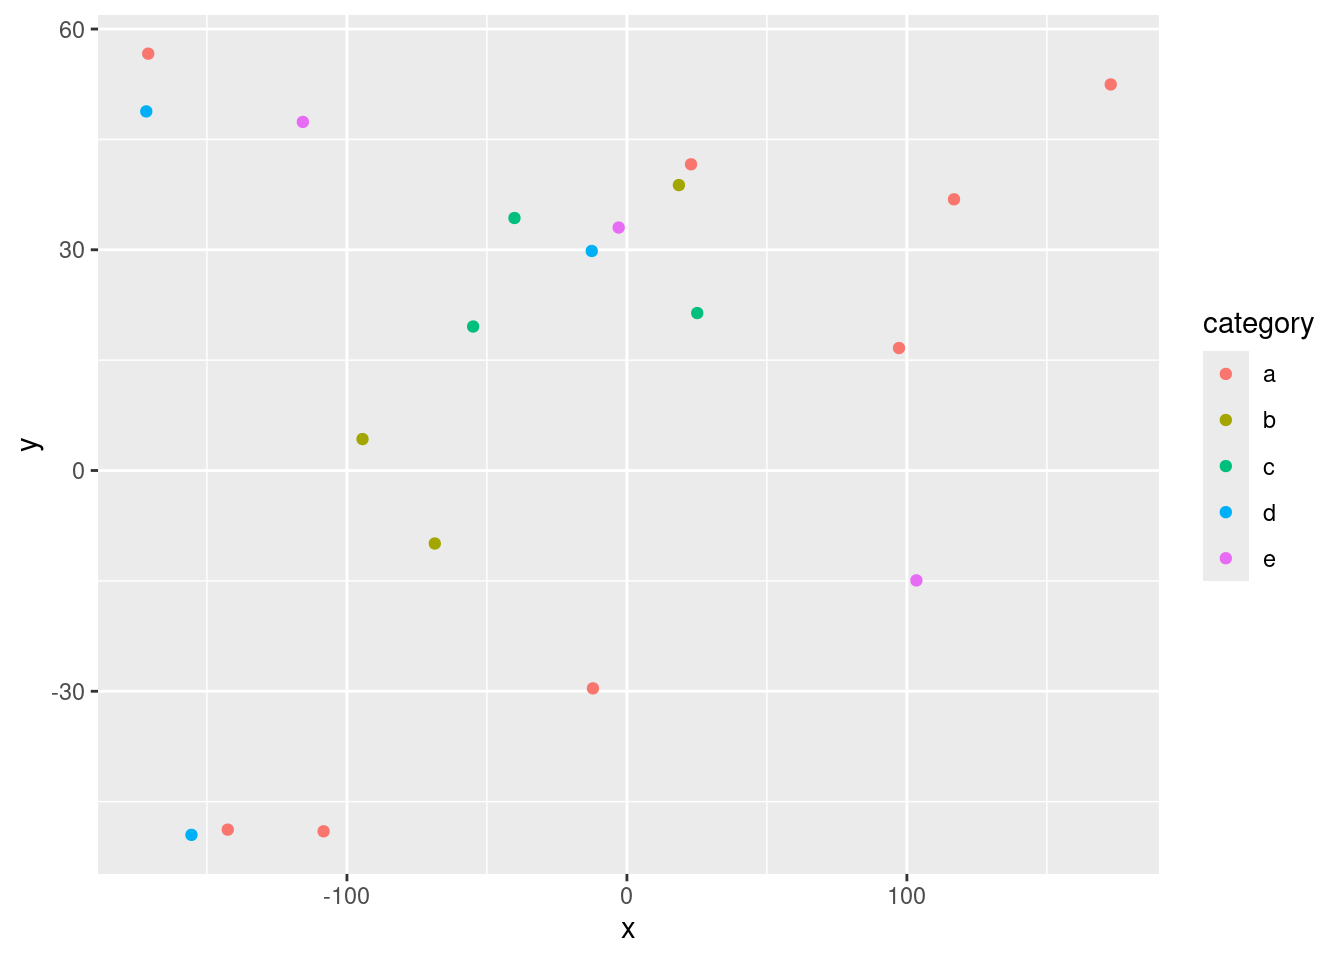
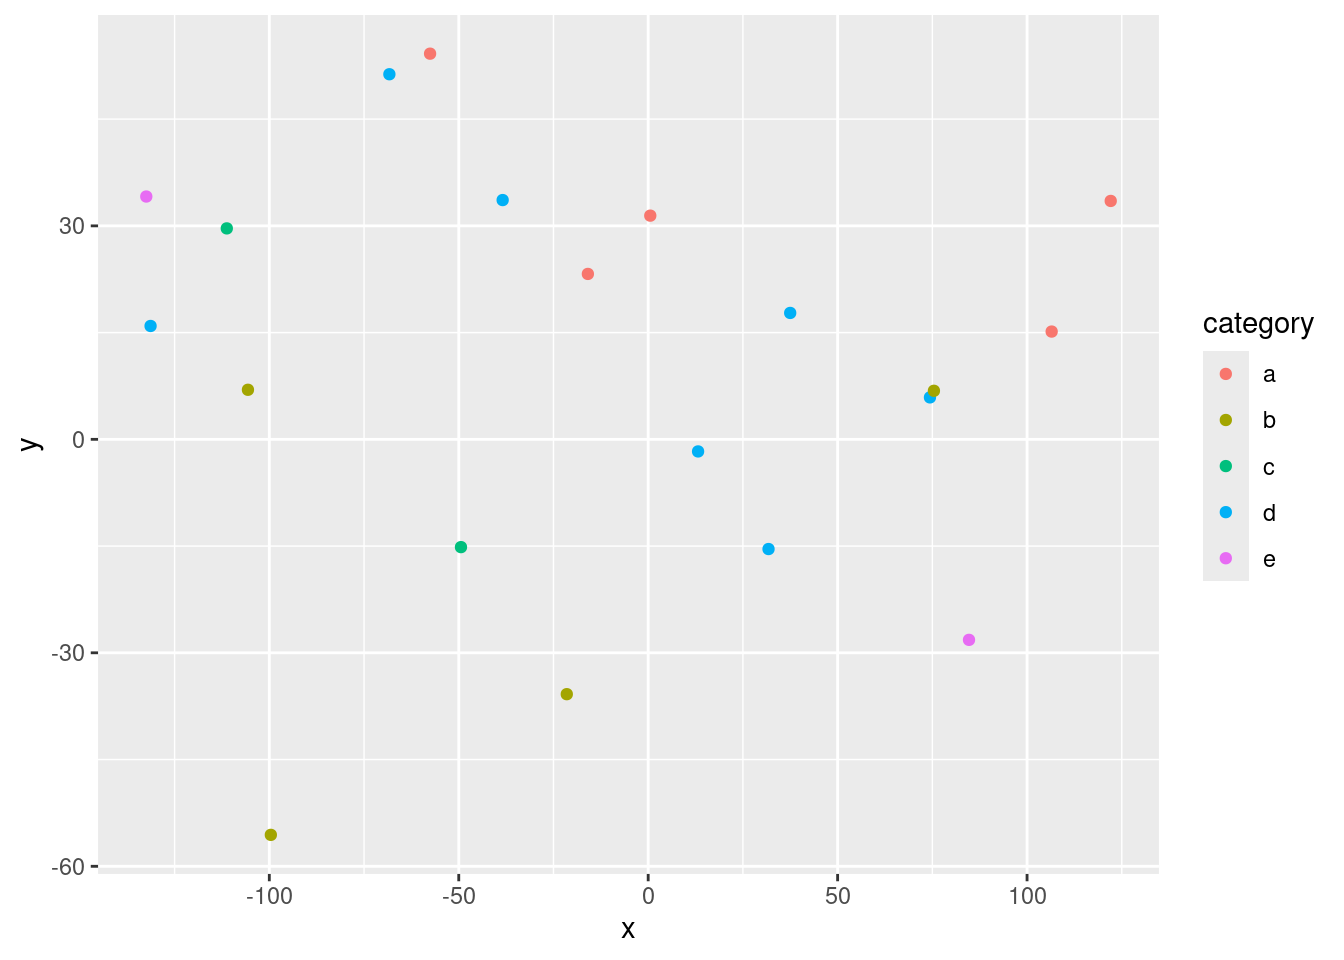
Built site for gh-pages

diff --git a/index.html b/index.html
@@ -266,74 +266,74 @@ pre > code.sourceCode > span > a:first-child::before { text-decoration: underlin
 </thead>
 <tbody>
 <tr class="odd">
-<td style="text-align: center;">-54.93</td>
-<td style="text-align: center;">19.57</td>
-<td style="text-align: center;">19.17</td>
+<td style="text-align: center;">-111.22</td>
+<td style="text-align: center;">29.64</td>
+<td style="text-align: center;">5.32</td>
 <td style="text-align: center;">c</td>
-<td style="text-align: center;">1.62</td>
+<td style="text-align: center;">0.41</td>
 </tr>
 <tr class="even">
-<td style="text-align: center;">97.18</td>
-<td style="text-align: center;">16.65</td>
-<td style="text-align: center;">6.18</td>
-<td style="text-align: center;">a</td>
-<td style="text-align: center;">2.20</td>
-</tr>
-<tr class="odd">
-<td style="text-align: center;">18.57</td>
-<td style="text-align: center;">38.79</td>
-<td style="text-align: center;">10.60</td>
-<td style="text-align: center;">b</td>
-<td style="text-align: center;">-1.12</td>
-</tr>
-<tr class="even">
-<td style="text-align: center;">-115.75</td>
-<td style="text-align: center;">47.38</td>
-<td style="text-align: center;">9.96</td>
-<td style="text-align: center;">e</td>
-<td style="text-align: center;">0.64</td>
-</tr>
-<tr class="odd">
-<td style="text-align: center;">-2.95</td>
-<td style="text-align: center;">33.02</td>
-<td style="text-align: center;">19.15</td>
-<td style="text-align: center;">e</td>
-<td style="text-align: center;">1.27</td>
-</tr>
-<tr class="even">
-<td style="text-align: center;">-12.56</td>
-<td style="text-align: center;">29.83</td>
-<td style="text-align: center;">18.95</td>
+<td style="text-align: center;">74.37</td>
+<td style="text-align: center;">5.89</td>
+<td style="text-align: center;">19.10</td>
 <td style="text-align: center;">d</td>
-<td style="text-align: center;">-1.17</td>
+<td style="text-align: center;">1.44</td>
 </tr>
 <tr class="odd">
-<td style="text-align: center;">116.83</td>
-<td style="text-align: center;">36.86</td>
-<td style="text-align: center;">16.62</td>
-<td style="text-align: center;">a</td>
-<td style="text-align: center;">-1.39</td>
-</tr>
-<tr class="even">
-<td style="text-align: center;">25.12</td>
-<td style="text-align: center;">21.40</td>
-<td style="text-align: center;">10.22</td>
-<td style="text-align: center;">c</td>
-<td style="text-align: center;">0.90</td>
-</tr>
-<tr class="odd">
-<td style="text-align: center;">-94.44</td>
-<td style="text-align: center;">4.27</td>
-<td style="text-align: center;">9.92</td>
+<td style="text-align: center;">-99.60</td>
+<td style="text-align: center;">-55.59</td>
+<td style="text-align: center;">17.00</td>
 <td style="text-align: center;">b</td>
-<td style="text-align: center;">-0.59</td>
+<td style="text-align: center;">-2.23</td>
 </tr>
 <tr class="even">
-<td style="text-align: center;">172.80</td>
-<td style="text-align: center;">52.47</td>
-<td style="text-align: center;">6.57</td>
+<td style="text-align: center;">-15.92</td>
+<td style="text-align: center;">23.24</td>
+<td style="text-align: center;">17.30</td>
 <td style="text-align: center;">a</td>
-<td style="text-align: center;">0.31</td>
+<td style="text-align: center;">1.40</td>
+</tr>
+<tr class="odd">
+<td style="text-align: center;">0.55</td>
+<td style="text-align: center;">31.44</td>
+<td style="text-align: center;">13.22</td>
+<td style="text-align: center;">a</td>
+<td style="text-align: center;">0.39</td>
+</tr>
+<tr class="even">
+<td style="text-align: center;">31.76</td>
+<td style="text-align: center;">-15.42</td>
+<td style="text-align: center;">19.93</td>
+<td style="text-align: center;">d</td>
+<td style="text-align: center;">0.66</td>
+</tr>
+<tr class="odd">
+<td style="text-align: center;">-38.41</td>
+<td style="text-align: center;">33.62</td>
+<td style="text-align: center;">8.84</td>
+<td style="text-align: center;">d</td>
+<td style="text-align: center;">-0.52</td>
+</tr>
+<tr class="even">
+<td style="text-align: center;">106.49</td>
+<td style="text-align: center;">15.14</td>
+<td style="text-align: center;">18.48</td>
+<td style="text-align: center;">a</td>
+<td style="text-align: center;">-0.30</td>
+</tr>
+<tr class="odd">
+<td style="text-align: center;">-105.64</td>
+<td style="text-align: center;">6.96</td>
+<td style="text-align: center;">13.10</td>
+<td style="text-align: center;">b</td>
+<td style="text-align: center;">-1.23</td>
+</tr>
+<tr class="even">
+<td style="text-align: center;">84.68</td>
+<td style="text-align: center;">-28.18</td>
+<td style="text-align: center;">13.79</td>
+<td style="text-align: center;">e</td>
+<td style="text-align: center;">2.28</td>
 </tr>
 </tbody>
 </table>
@@ -355,8 +355,8 @@ pre > code.sourceCode > span > a:first-child::before { text-decoration: underlin
 <span id="cb5-4"><a href="#cb5-4" aria-hidden="true" tabindex="-1"></a>  <span class="fu">addPopups</span>(<span class="sc">~</span>x[<span class="dv">2</span>], <span class="sc">~</span>y[<span class="dv">2</span>], <span class="st">"Random popup"</span>)</span>
 <span id="cb5-5"><a href="#cb5-5" aria-hidden="true" tabindex="-1"></a>m  <span class="co"># a map with the default OSM tile layer</span></span></code><button title="Copy to Clipboard" class="code-copy-button"><i class="bi"></i></button></pre></div>
 <div class="cell-output-display">
-<div class="leaflet html-widget html-fill-item" id="htmlwidget-6287109e04c18a47915b" style="width:100%;height:325px;"></div>
-<script type="application/json" data-for="htmlwidget-6287109e04c18a47915b">{"x":{"options":{"crs":{"crsClass":"L.CRS.EPSG3857","code":null,"proj4def":null,"projectedBounds":null,"options":{}}},"calls":[{"method":"addTiles","args":["https://{s}.tile.openstreetmap.org/{z}/{x}/{y}.png",null,null,{"minZoom":0,"maxZoom":18,"tileSize":256,"subdomains":"abc","errorTileUrl":"","tms":false,"noWrap":false,"zoomOffset":0,"zoomReverse":false,"opacity":1,"zIndex":1,"detectRetina":false,"attribution":"&copy; <a href=\"https://openstreetmap.org/copyright/\">OpenStreetMap<\/a>,  <a href=\"https://opendatacommons.org/licenses/odbl/\">ODbL<\/a>"}]},{"method":"addCircleMarkers","args":[[19.57114906981587,16.64804818108678,38.79330480471253,47.37509367987514,33.02229995839298,29.83426102437079,36.85751362703741,21.3998894020915,4.274886483326554,52.47019973583519,56.65220229886472,48.80504429340363,-29.60733820684254,41.61514123901725,-49.03475892730057,-9.920507194474339,34.31711937300861,-49.51809170655906,-14.93523647077382,-48.80485679022968],[-54.92787689901888,97.17620168812573,18.56835608370602,-115.7482790015638,-2.946831230074167,-12.55946869030595,116.8317982368171,25.11862901039422,-94.43697209469974,172.8002747520804,-170.9767603687942,-171.666572894901,-12.13367756456137,22.8944752458483,-108.3352604694664,-68.6144975759089,-40.16315571963787,-155.531938271597,103.3937502745539,-142.5702957250178],[19.16961336042732,6.178125496953726,10.59875058592297,9.955854697618634,19.15292280493304,18.94803378963843,16.62147733266465,10.21503773517907,9.918430645484477,6.574411345645785,18.51699212449603,15.79721826245077,11.57116218004376,12.61685731238686,15.85112618282437,9.985940561164171,8.18765738629736,12.78479641536251,13.56378961470909,13.39559891843237],null,null,{"interactive":true,"className":"","stroke":true,"color":["c","a","b","e","e","d","a","c","b","a","a","d","a","a","a","b","c","d","e","a"],"weight":5,"opacity":0.5,"fill":true,"fillColor":["c","a","b","e","e","d","a","c","b","a","a","d","a","a","a","b","c","d","e","a"],"fillOpacity":0.2},null,null,null,null,null,{"interactive":false,"permanent":false,"direction":"auto","opacity":1,"offset":[0,0],"textsize":"10px","textOnly":false,"className":"","sticky":true},null]},{"method":"addPopups","args":[16.64804818108678,97.17620168812573,"Random popup",null,null,{"maxWidth":300,"minWidth":50,"autoPan":true,"keepInView":false,"closeButton":true,"className":""}]}],"limits":{"lat":[-49.51809170655906,56.65220229886472],"lng":[-171.666572894901,172.8002747520804]}},"evals":[],"jsHooks":[]}</script>
+<div class="leaflet html-widget html-fill-item" id="htmlwidget-b5fdcdb0fbe434b90fff" style="width:100%;height:325px;"></div>
+<script type="application/json" data-for="htmlwidget-b5fdcdb0fbe434b90fff">{"x":{"options":{"crs":{"crsClass":"L.CRS.EPSG3857","code":null,"proj4def":null,"projectedBounds":null,"options":{}}},"calls":[{"method":"addTiles","args":["https://{s}.tile.openstreetmap.org/{z}/{x}/{y}.png",null,null,{"minZoom":0,"maxZoom":18,"tileSize":256,"subdomains":"abc","errorTileUrl":"","tms":false,"noWrap":false,"zoomOffset":0,"zoomReverse":false,"opacity":1,"zIndex":1,"detectRetina":false,"attribution":"&copy; <a href=\"https://openstreetmap.org/copyright/\">OpenStreetMap<\/a>,  <a href=\"https://opendatacommons.org/licenses/odbl/\">ODbL<\/a>"}]},{"method":"addCircleMarkers","args":[[29.64378397911787,5.893933000043035,-55.58584107086062,23.24438536539674,31.43541720695794,-15.41749516502023,33.6243499070406,15.1442716922611,6.963141588494182,-28.18059967830777,-1.70078007504344,17.7614781819284,33.50138632580638,34.12237336859107,-15.14830970205367,-35.81362081691623,6.82109878398478,15.92973925173283,54.19767424464226,51.30666866898537],[-111.222779173404,74.37154012732208,-99.5980101171881,-15.92083415016532,0.5514860618859529,31.7622415535152,-38.41145622543991,106.4929903205484,-105.6415191292763,84.67727984301746,13.16825218498707,37.48247682116926,122.0822163484991,-132.4725294671953,-49.41265426576138,-21.48532661609352,75.41637855581939,-131.341853979975,-57.56933125667274,-68.31099950708449],[5.322166442638263,19.09743732656352,16.99575202073902,17.30195837677456,13.22326222900301,19.93054085178301,8.843807214871049,18.47932629636489,13.09654571348801,13.79074568045326,13.12279091216624,6.352258536498994,10.10213511646725,6.851777979172766,6.388376709073782,15.8487604605034,10.23236088338308,17.46527674607933,12.78302929713391,18.50053002475761],null,null,{"interactive":true,"className":"","stroke":true,"color":["c","d","b","a","a","d","d","a","b","e","d","d","a","e","c","b","b","d","a","d"],"weight":5,"opacity":0.5,"fill":true,"fillColor":["c","d","b","a","a","d","d","a","b","e","d","d","a","e","c","b","b","d","a","d"],"fillOpacity":0.2},null,null,null,null,null,{"interactive":false,"permanent":false,"direction":"auto","opacity":1,"offset":[0,0],"textsize":"10px","textOnly":false,"className":"","sticky":true},null]},{"method":"addPopups","args":[5.893933000043035,74.37154012732208,"Random popup",null,null,{"maxWidth":300,"minWidth":50,"autoPan":true,"keepInView":false,"closeButton":true,"className":""}]}],"limits":{"lat":[-55.58584107086062,54.19767424464226],"lng":[-132.4725294671953,122.0822163484991]}},"evals":[],"jsHooks":[]}</script>
 <p>Map of completely random data</p>
 </div>
 </div>
@@ -379,8 +379,8 @@ pre > code.sourceCode > span > a:first-child::before { text-decoration: underlin
 <span id="cb7-2"><a href="#cb7-2" aria-hidden="true" tabindex="-1"></a><span class="fu">dygraph</span>(nhtemp, <span class="at">main =</span> <span class="st">"New Haven Temperatures"</span>) <span class="sc">|&gt;</span> </span>
 <span id="cb7-3"><a href="#cb7-3" aria-hidden="true" tabindex="-1"></a>  <span class="fu">dyRangeSelector</span>(<span class="at">dateWindow =</span> <span class="fu">c</span>(<span class="st">"1920-01-01"</span>, <span class="st">"1960-01-01"</span>)) </span></code><button title="Copy to Clipboard" class="code-copy-button"><i class="bi"></i></button></pre></div>
 <div class="cell-output-display">
-<div class="dygraphs html-widget html-fill-item" id="htmlwidget-547f0b96c91525e79caf" style="width:100%;height:464px;"></div>
-<script type="application/json" data-for="htmlwidget-547f0b96c91525e79caf">{"x":{"attrs":{"title":"New Haven Temperatures","labels":["year","V1"],"legend":"auto","retainDateWindow":false,"axes":{"x":{"pixelsPerLabel":60}},"showRangeSelector":true,"dateWindow":["1920-01-01T00:00:00.000Z","1960-01-01T00:00:00.000Z"],"rangeSelectorHeight":40,"rangeSelectorPlotFillColor":" #A7B1C4","rangeSelectorPlotStrokeColor":"#808FAB","interactionModel":"Dygraph.Interaction.defaultModel"},"scale":"yearly","annotations":[],"shadings":[],"events":[],"format":"date","data":[["1912-01-01T00:00:00.000Z","1913-01-01T00:00:00.000Z","1914-01-01T00:00:00.000Z","1915-01-01T00:00:00.000Z","1916-01-01T00:00:00.000Z","1917-01-01T00:00:00.000Z","1918-01-01T00:00:00.000Z","1919-01-01T00:00:00.000Z","1920-01-01T00:00:00.000Z","1921-01-01T00:00:00.000Z","1922-01-01T00:00:00.000Z","1923-01-01T00:00:00.000Z","1924-01-01T00:00:00.000Z","1925-01-01T00:00:00.000Z","1926-01-01T00:00:00.000Z","1927-01-01T00:00:00.000Z","1928-01-01T00:00:00.000Z","1929-01-01T00:00:00.000Z","1930-01-01T00:00:00.000Z","1931-01-01T00:00:00.000Z","1932-01-01T00:00:00.000Z","1933-01-01T00:00:00.000Z","1934-01-01T00:00:00.000Z","1935-01-01T00:00:00.000Z","1936-01-01T00:00:00.000Z","1937-01-01T00:00:00.000Z","1938-01-01T00:00:00.000Z","1939-01-01T00:00:00.000Z","1940-01-01T00:00:00.000Z","1941-01-01T00:00:00.000Z","1942-01-01T00:00:00.000Z","1943-01-01T00:00:00.000Z","1944-01-01T00:00:00.000Z","1945-01-01T00:00:00.000Z","1946-01-01T00:00:00.000Z","1947-01-01T00:00:00.000Z","1948-01-01T00:00:00.000Z","1949-01-01T00:00:00.000Z","1950-01-01T00:00:00.000Z","1951-01-01T00:00:00.000Z","1952-01-01T00:00:00.000Z","1953-01-01T00:00:00.000Z","1954-01-01T00:00:00.000Z","1955-01-01T00:00:00.000Z","1956-01-01T00:00:00.000Z","1957-01-01T00:00:00.000Z","1958-01-01T00:00:00.000Z","1959-01-01T00:00:00.000Z","1960-01-01T00:00:00.000Z","1961-01-01T00:00:00.000Z","1962-01-01T00:00:00.000Z","1963-01-01T00:00:00.000Z","1964-01-01T00:00:00.000Z","1965-01-01T00:00:00.000Z","1966-01-01T00:00:00.000Z","1967-01-01T00:00:00.000Z","1968-01-01T00:00:00.000Z","1969-01-01T00:00:00.000Z","1970-01-01T00:00:00.000Z","1971-01-01T00:00:00.000Z"],[49.9,52.3,49.4,51.1,49.4,47.9,49.8,50.9,49.3,51.9,50.8,49.6,49.3,50.6,48.4,50.7,50.9,50.6,51.5,52.8,51.8,51.1,49.8,50.2,50.4,51.6,51.8,50.9,48.8,51.7,51,50.6,51.7,51.5,52.1,51.3,51,54,51.4,52.7,53.1,54.6,52,52,50.9,52.6,50.2,52.6,51.6,51.9,50.5,50.9,51.7,51.4,51.7,50.8,51.9,51.8,51.9,53]]},"evals":["attrs.interactionModel"],"jsHooks":[]}</script>
+<div class="dygraphs html-widget html-fill-item" id="htmlwidget-5d2cfd5c836e3cf73386" style="width:100%;height:464px;"></div>
+<script type="application/json" data-for="htmlwidget-5d2cfd5c836e3cf73386">{"x":{"attrs":{"title":"New Haven Temperatures","labels":["year","V1"],"legend":"auto","retainDateWindow":false,"axes":{"x":{"pixelsPerLabel":60}},"showRangeSelector":true,"dateWindow":["1920-01-01T00:00:00.000Z","1960-01-01T00:00:00.000Z"],"rangeSelectorHeight":40,"rangeSelectorPlotFillColor":" #A7B1C4","rangeSelectorPlotStrokeColor":"#808FAB","interactionModel":"Dygraph.Interaction.defaultModel"},"scale":"yearly","annotations":[],"shadings":[],"events":[],"format":"date","data":[["1912-01-01T00:00:00.000Z","1913-01-01T00:00:00.000Z","1914-01-01T00:00:00.000Z","1915-01-01T00:00:00.000Z","1916-01-01T00:00:00.000Z","1917-01-01T00:00:00.000Z","1918-01-01T00:00:00.000Z","1919-01-01T00:00:00.000Z","1920-01-01T00:00:00.000Z","1921-01-01T00:00:00.000Z","1922-01-01T00:00:00.000Z","1923-01-01T00:00:00.000Z","1924-01-01T00:00:00.000Z","1925-01-01T00:00:00.000Z","1926-01-01T00:00:00.000Z","1927-01-01T00:00:00.000Z","1928-01-01T00:00:00.000Z","1929-01-01T00:00:00.000Z","1930-01-01T00:00:00.000Z","1931-01-01T00:00:00.000Z","1932-01-01T00:00:00.000Z","1933-01-01T00:00:00.000Z","1934-01-01T00:00:00.000Z","1935-01-01T00:00:00.000Z","1936-01-01T00:00:00.000Z","1937-01-01T00:00:00.000Z","1938-01-01T00:00:00.000Z","1939-01-01T00:00:00.000Z","1940-01-01T00:00:00.000Z","1941-01-01T00:00:00.000Z","1942-01-01T00:00:00.000Z","1943-01-01T00:00:00.000Z","1944-01-01T00:00:00.000Z","1945-01-01T00:00:00.000Z","1946-01-01T00:00:00.000Z","1947-01-01T00:00:00.000Z","1948-01-01T00:00:00.000Z","1949-01-01T00:00:00.000Z","1950-01-01T00:00:00.000Z","1951-01-01T00:00:00.000Z","1952-01-01T00:00:00.000Z","1953-01-01T00:00:00.000Z","1954-01-01T00:00:00.000Z","1955-01-01T00:00:00.000Z","1956-01-01T00:00:00.000Z","1957-01-01T00:00:00.000Z","1958-01-01T00:00:00.000Z","1959-01-01T00:00:00.000Z","1960-01-01T00:00:00.000Z","1961-01-01T00:00:00.000Z","1962-01-01T00:00:00.000Z","1963-01-01T00:00:00.000Z","1964-01-01T00:00:00.000Z","1965-01-01T00:00:00.000Z","1966-01-01T00:00:00.000Z","1967-01-01T00:00:00.000Z","1968-01-01T00:00:00.000Z","1969-01-01T00:00:00.000Z","1970-01-01T00:00:00.000Z","1971-01-01T00:00:00.000Z"],[49.9,52.3,49.4,51.1,49.4,47.9,49.8,50.9,49.3,51.9,50.8,49.6,49.3,50.6,48.4,50.7,50.9,50.6,51.5,52.8,51.8,51.1,49.8,50.2,50.4,51.6,51.8,50.9,48.8,51.7,51,50.6,51.7,51.5,52.1,51.3,51,54,51.4,52.7,53.1,54.6,52,52,50.9,52.6,50.2,52.6,51.6,51.9,50.5,50.9,51.7,51.4,51.7,50.8,51.9,51.8,51.9,53]]},"evals":["attrs.interactionModel"],"jsHooks":[]}</script>
 </div>
 </div>
 </section>
